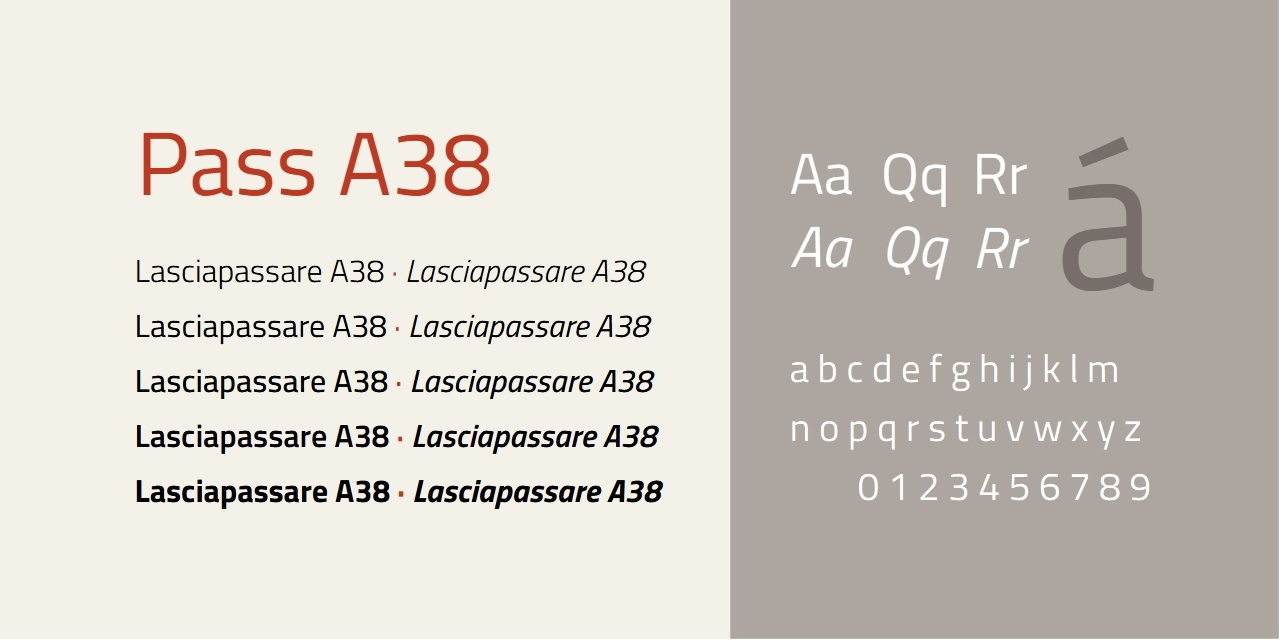
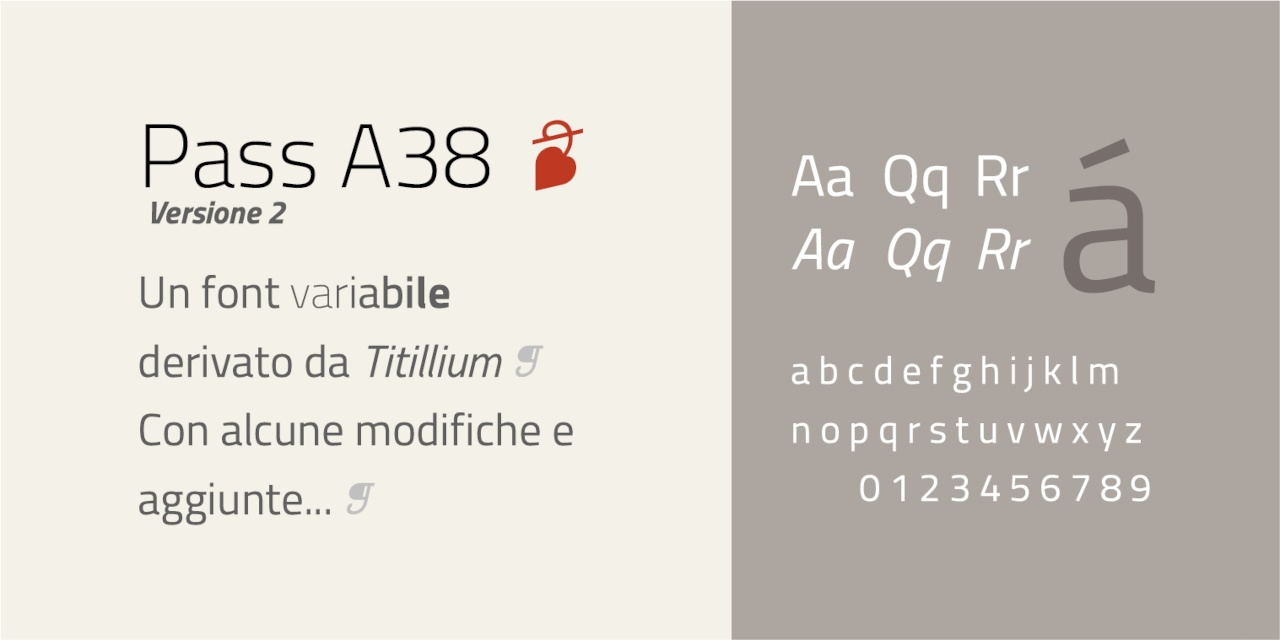
Version 2.102

diff --git a/index.html b/index.html
@@ -3,13 +3,15 @@
 <meta name="viewport" content="width=device-width, initial-scale=1.0">
 <style>
 @font-face {
-  font-family: "test"; font-weight: 200 700;
+  font-family: "test"; font-weight: 100 700;
   src: url("font/Pass_A38.woff2") format("woff2-variations");
 }
 body { font-family: "test"; font-size:16pt;margin:0;padding:0 }
 div { margin:0; padding:0; }
 
 a { color: #06c }
+
+i { font-variation-settings: "ital" 1; font-style:normal }
 
 header { width: 100%; margin:0; padding:0 }
 header > div { width:100%; color: #fff }
@@ -39,12 +41,18 @@ table { margin: 15px auto; padding:0; text-align:center; font-size: 16pt; border
 table th { border-bottom: 1px solid #666 }
 table td { padding: 2px 6px}
 
+blockquote { margin: 10px; padding: 6px 10px 6px 20px; border-left: 3px solid #bf3922 }
+
+.f1 { font-weight: 100 }
 .f2 { font-weight: 200 }
 .f3 { font-weight: 300 }
 .f4 { font-weight: 400 }
+.f5 { font-weight: 500 }
 .f6 { font-weight: 600 }
 .f7 { font-weight: 700 }
-.f9 { font-weight: 900; color: #888 }
+
+ul li::marker { font-family:'test'; color: #bf3922 }
+ol li::marker { font-family:'test'; color: #bf3922; font-feature-settings: 'ss04'; }
 
 .testo { color: #444; width:90%; margin: 20px 10px; border:0; border-bottom: 1px solid #888; font-family: "test"; }
 input.testo { font-size:32pt; }
@@ -55,6 +63,8 @@ footer { padding:0; margin:0; width: 100%; background: #2e383d; color: #fff }
 footer > div { padding:20 0; margin:0 auto; width: 1180px }
 footer p { margin: 0 10px; font-size: 18px }
 
+.rosso { color: #bf3922 }
+.fino { font-weight: 200 }
 .feat { font-weight: 600 }
 .legg { font-weight: 200 }
 .codice { color: #666; font-size: 12pt; text-align:left; border-bottom: 1px solid #666 }
@@ -65,6 +75,8 @@ footer p { margin: 0 10px; font-size: 18px }
 .vfrac { font-feature-settings: 'frac'; }
 .vss01 { font-feature-settings: 'ss01'; }
 .vss02 { font-feature-settings: 'ss02'; }
+.vss03 { font-feature-settings: 'ss03'; }
+.vss04 { font-feature-settings: 'ss04'; }
 
 div.side {width: 249px; margin: 30px 0 0; padding:10px 10px 5px; float:left; border-right:1px solid #555; color: #666 }
 
@@ -92,25 +104,32 @@ div.side {width: 249px; margin: 30px 0 0; padding:10px 10px 5px; float:left; bor
 
 	<section>
 		<div class="side">
-			<p>Una breve descrizione del font derivato da "Titillium Web"</p>
+			<p>Una breve descrizione del font derivato da <i>Titillium Web</i></p>
 		</div>
 		<article>
-			<h2>Un font variabile</h2>
+			<h2>Pass A38, un font variabile <span class="rosso fino">❦</span></h2>
 			<p>Utilizzare le barre di scorrimento per testare il font.</p>
 			<input type="text" class="testo" value="Inserire un testo di prova ÀÈÉÌÒÙßàèéìòù"/>
 			<p><i>Impostazioni:</i> <span id="dati"></span></p>
-			<p><b>wght (200...700):</b> <input id="range_wght" type="range" value="400" min="200" max="700" step="1" oninput="aggiorna('wght', this.value)"></p>
+			<p><b>wght (100...700):</b> <input id="range_wght" type="range" value="400" min="100" max="700" step="1" oninput="aggiorna('wght', this.value)"></p>
 			<p><b>ital (0...1)</b>: <input id="range_ital" type="range" value="0" min="0" max="1" step="1" oninput="aggiorna('ital', this.value)"></p>
 			<p><button onclick="reset()">Reimposta</button></p>
 
 			<h3>Descrizione</h3>
 			
-			<p>Il font "Titillium" è stato realizzato dall'Accademia di Belle Arti di Urbino e distribuito con licenza OFL 1.1<a class="ref" id="nt-1" href="#ref-1">[1]</a>; è ora distribuito via Google Fonts come "Titillium Web" in undici diverse versioni<a class="ref" id="nt-2" href="#ref-2">[2]</a>.</p>
+			<p>Il font <i>Titillium</i> è stato realizzato dall'Accademia di Belle Arti di Urbino e distribuito con licenza OFL 1.1<a class="ref" id="nt-1" href="#ref-1">[1]</a>; è ora distribuito via Google Fonts come <i>Titillium Web</i> in undici diverse versioni<a class="ref" id="nt-2" href="#ref-2">[2]</a>.</p>
+			<p>Il font variabile <i>Pass A38</i> è una derivazione del font <i>Titillium Web</i> (la lettera <i>l</i> minuscola è stata leggermente modificata per cercare di renderla facilmente distinguibile dalla <i>I</i> maiuscola).</p>
+			<p>Come mostra la tabella, il font <i>Pass A38</i> permette di simulare quasi tutte le varianti di <i>Titillium Web</i>; non è però disponibile la versione "Black" (cioè per weight=900) perché non esiste il corrispondente corsivo.</p>
 			<table cellpadding="0" cellspacing="0">
 				<tr>
 					<th>Weight</th>
 					<th>Tondo</th>
 					<th>Corsivo</th>
+				</tr>
+				<tr class="f1">
+					<td>100</td>
+					<td>Thin</td>
+					<td><i>Thin Italic</i></td>
 				</tr>
 				<tr class="f2">
 					<td>200</td>
@@ -127,6 +146,11 @@ div.side {width: 249px; margin: 30px 0 0; padding:10px 10px 5px; float:left; bor
 					<td>Regular</td>
 					<td><i>Italic</i></td>
 				</tr>
+				<tr class="f5">
+					<td>500</td>
+					<td>Medium</td>
+					<td><i>Medium Italic</i></td>
+				</tr>
 				<tr class="f6">
 					<td>600</td>
 					<td>SemiBold</td>
@@ -137,15 +161,19 @@ div.side {width: 249px; margin: 30px 0 0; padding:10px 10px 5px; float:left; bor
 					<td>Bold</td>
 					<td><i>Bold Italic</i></td>
 				</tr>
-				<tr class="f9">
-					<td>900</td>
-					<td>Black</td>
-					<td>—</td>
-				</tr>
 			</table>
-			<p>Il font variabile "Pass A38" è una derivazione del font "Titillium Web" (la lettera <b>l</b> minuscola è stata leggermente modificata per cercare di renderla facilmente distinguibile dalla <b>I</b> maiuscola).</p>
-			<p>Come mostra la tabella, il font "Pass A38" permette di simulare quasi tutte le varianti di "Titillium Web" con un unico file in formato WOFF2; non è però disponibile la versione "Black" (cioè quando weight=900) perché non esiste il corrispondente corsivo.</p>
-			<p>Poiché il font "Titillium Web" è stato adottato per la pubblica amministrazione italiana<a class="ref" id="nt-3" href="#ref-3">[3]</a>, la scelta del nome "Pass A38" intende essere un omaggio all'ottava fatica di Asterix<a class="ref" id="nt-4" href="#ref-4">[4]</a> per ottenere il "lasciapassare A38" („Passierschein A38“ in tedesco) nella «Casa che rende folli».</p>
+			<p>Il font può essere caricato con un unico file in formato WOFF2 con il codice seguente.</p>
+			<blockquote>@font-face {<br/>
+			&nbsp; &nbsp; font-family: "Pass A38";<br/>
+			&nbsp; &nbsp; font-weight: 100 700;<br/>
+			&nbsp; &nbsp; src: url("Pass_A38.woff2") format("woff2-variations");<br/>
+			}</blockquote>
+			<p>Ovviamente deve essere adattando il percorso verso il file nei diversi casi.</p>
+			<p>Per ottenere correttamente il corsivo con Chrome, per il marcatore <i>i</i> utilizzare il seguente elemento.</p>
+			<blockquote>i { font-variation-settings: "ital" 1; font-style:normal }</blockquote>
+
+			<h3 id="nome">Nome</h3>
+			<p>Poiché il font <i>Titillium Web</i> è stato adottato per la pubblica amministrazione italiana<a class="ref" id="nt-3" href="#ref-3">[3]</a>, la scelta del nome <i>Pass A38</i> intende essere un omaggio all'ottava fatica di Asterix<a class="ref" id="nt-4" href="#ref-4">[4]</a> per ottenere il "lasciapassare A38" („Passierschein A38“ in tedesco) nella «Casa che rende folli».</p>
 
 			<h3 id="caratteristiche">Caratteristiche</h3>
 			<p>Il font è distribuito nei formati ttf e WOFF2 e sono supportate le seguenti caratteristiche.</p>
@@ -213,8 +241,49 @@ div.side {width: 249px; margin: 30px 0 0; padding:10px 10px 5px; float:left; bor
 				<tr>
 					<td colspan="4" class="codice">font-feature-settings: 'ss02';</td>
 				</tr>
+				<tr>
+					<td class="feat">'ss03'</td>
+					<td>1234567890</td>
+					<td class="legg">→</td>
+					<td class="vss03">1234567890</td>
+				<tr>
+				<tr>
+					<td colspan="4" class="codice">font-feature-settings: 'ss03';</td>
+				</tr>
 			</table>
 			<p>Sempre in omaggio alla «Casa che rende folli», la caratteristica <b>'ss01'</b> permette di ottenere i numeri romani dei piani e degli sportelli (solo nell'intervallo 1-9999), mentre la caratteristica <b>'ss02'</b> permette di mostrare le frecce per orientarsi tra gli sportelli.</p>
+
+			<h3 id="unicode">Elenco caratteri UNICODE</h3>
+			<p>! " # $ % & ' ( ) * + , - . / 0 1 2 3 4 5 6 7 8 9 : ; < = > ? @ A B C D E F G H I J K L M N O P Q R S T U V W X Y Z [ \ ] ^ _ ` a b c d e f g h i j k l m n o p q r s t u v w x y z { | } ~ ¡ ¢ £ ¤ ¥ ¦ § ¨ © ª « ¬ ® ¯ ° ± ² ³ ´ µ ¶ · ¸ ¹ º » ¼ ½ ¾ ¿ À Á Â Ã Ä Å Æ Ç È É Ê Ë Ì Í Î Ï Ð Ñ Ò Ó Ô Õ Ö × Ø Ù Ú Û Ü Ý Þ ß à á â ã ä å æ ç è é ê ë ì í î ï ð ñ ò ó ô õ ö ÷ ø ù ú û ü ý þ ÿ Ā ā Ă ă Ą ą Ć ć Ĉ ĉ Ċ ċ Č č Ď ď Đ đ Ē ē Ĕ ĕ Ė ė Ę ę Ě ě Ĝ ĝ Ğ ğ Ġ ġ Ģ ģ Ĥ ĥ Ħ ħ Ĩ ĩ Ī ī Ĭ ĭ Į į İ ı Ĳ ĳ Ĵ ĵ Ķ ķ Ĺ ĺ Ļ ļ Ľ ľ Ł ł Ń ń Ņ ņ Ň ň Ŋ ŋ Ō ō Ŏ ŏ Ő ő Œ œ Ŕ ŕ Ŗ ŗ Ř ř Ś ś Ŝ ŝ Ş ş Š š Ţ ţ Ť ť Ŧ ŧ Ũ ũ Ū ū Ŭ ŭ Ů ů Ű ű Ų ų Ŵ ŵ Ŷ ŷ Ÿ Ź ź Ż ż Ž ž ſ Ǝ Ə ƒ Ǻ ǻ Ǽ ǽ Ǿ ǿ Ș ș Ț ț ȷ ˆ ˇ ˘ ˙ ˚ ˛ ˜ ˝ ̦ Δ Ω μ π ฿ Ẁ ẁ Ẃ ẃ Ẅ ẅ ẞ ẫ Ằ ễ ỗ Ỳ ỳ Ỹ ỹ – — ‖ ‘ ’ ‚ “ ” „ † ‡ • … ‰ ‹ › ⁂ ⁄ ⁋ ⁰ ⁴ ⁵ ⁶ ⁷ ⁸ ⁹ ₀ ₁ ₂ ₃ ₄ ₅ ₆ ₇ ₈ ₉ ₦ ₪ € ₲ ₴ ₹ ₽ ™ Ω ← ↑ → ↓ ∂ ∆ ∏ ∑ − ∕ ∙ √ ∞ ∫ ≈ ≠ ≡ ≤ ≥ ■ □ ▪ ▫ ▲ △ ▶ ▷ ▼ ▽ ◀ ◁ ◆ ◇ ◊ ○ ● ◦ ◻ ◼ ❡ ❦ ➊ ➋ ➌ ➍ ➎ ➏ ➐ ➑ ➒ ➓ ⟦ ⟧ ⟨ ⟩ ⬛ ⬜ 🄌</p>
+			<p><i>! " # $ % & ' ( ) * + , - . / 0 1 2 3 4 5 6 7 8 9 : ; < = > ? @ A B C D E F G H I J K L M N O P Q R S T U V W X Y Z [ \ ] ^ _ ` a b c d e f g h i j k l m n o p q r s t u v w x y z { | } ~ ¡ ¢ £ ¤ ¥ ¦ § ¨ © ª « ¬ ® ¯ ° ± ² ³ ´ µ ¶ · ¸ ¹ º » ¼ ½ ¾ ¿ À Á Â Ã Ä Å Æ Ç È É Ê Ë Ì Í Î Ï Ð Ñ Ò Ó Ô Õ Ö × Ø Ù Ú Û Ü Ý Þ ß à á â ã ä å æ ç è é ê ë ì í î ï ð ñ ò ó ô õ ö ÷ ø ù ú û ü ý þ ÿ Ā ā Ă ă Ą ą Ć ć Ĉ ĉ Ċ ċ Č č Ď ď Đ đ Ē ē Ĕ ĕ Ė ė Ę ę Ě ě Ĝ ĝ Ğ ğ Ġ ġ Ģ ģ Ĥ ĥ Ħ ħ Ĩ ĩ Ī ī Ĭ ĭ Į į İ ı Ĳ ĳ Ĵ ĵ Ķ ķ Ĺ ĺ Ļ ļ Ľ ľ Ł ł Ń ń Ņ ņ Ň ň Ŋ ŋ Ō ō Ŏ ŏ Ő ő Œ œ Ŕ ŕ Ŗ ŗ Ř ř Ś ś Ŝ ŝ Ş ş Š š Ţ ţ Ť ť Ŧ ŧ Ũ ũ Ū ū Ŭ ŭ Ů ů Ű ű Ų ų Ŵ ŵ Ŷ ŷ Ÿ Ź ź Ż ż Ž ž ſ Ǝ Ə ƒ Ǻ ǻ Ǽ ǽ Ǿ ǿ Ș ș Ț ț ȷ ˆ ˇ ˘ ˙ ˚ ˛ ˜ ˝ ̦ Δ Ω μ π ฿ Ẁ ẁ Ẃ ẃ Ẅ ẅ ẞ ẫ Ằ ễ ỗ Ỳ ỳ Ỹ ỹ – — ‖ ‘ ’ ‚ “ ” „ † ‡ • … ‰ ‹ › ⁂ ⁄ ⁋ ⁰ ⁴ ⁵ ⁶ ⁷ ⁸ ⁹ ₀ ₁ ₂ ₃ ₄ ₅ ₆ ₇ ₈ ₉ ₦ ₪ € ₲ ₴ ₹ ₽ ™ Ω ← ↑ → ↓ ∂ ∆ ∏ ∑ − ∕ ∙ √ ∞ ∫ ≈ ≠ ≡ ≤ ≥ ■ □ ▪ ▫ ▲ △ ▶ ▷ ▼ ▽ ◀ ◁ ◆ ◇ ◊ ○ ● ◦ ◻ ◼ ❡ ❦ ➊ ➋ ➌ ➍ ➎ ➏ ➐ ➑ ➒ ➓ ⟦ ⟧ ⟨ ⟩ ⬛ ⬜ 🄌</i></p>
+
+			<h3 id="numeri">Numeri e tabelle</h3>
+			<p>Per facilitare gli allineamenti si sono considerati i caratteri numerici con spaziatura costante. Anche i caratteri relativi alle valute hanno la stessa spaziatura.</p>
+			<blockquote>|<span class="f1"> 12,34% <span class="vfrac">123/456</span> 123,45 $ </span>|<span class="f4"> 12,34% <span class="vfrac">123/456</span> 123,45 $ </span>|<span class="f7"> 12,34% <span class="vfrac">123/456</span> 123,45 $ </span>|<br/>
+			|<span class="f1"> 56,78% <span class="vfrac">234/567</span> 678,90 € </span>|<span class="f4"> 56,78% <span class="vfrac">234/567</span> 678,90 € </span>|<span class="f7"> 56,78% <span class="vfrac">234/567</span> 678,90 € </span>|<br/>
+			|<span class="f1"> 90,12% <span class="vfrac">345/678</span> 123,45 ₹ </span>|<span class="f4"> 90,12% <span class="vfrac">345/678</span> 123,45 ₹ </span>|<span class="f7"> 90,12% <span class="vfrac">345/678</span> 123,45 ₹ </span>|<br/>
+			|<span class="f1"> 34,56% <span class="vfrac">456/789</span> 678,90 ₪ </span>|<span class="f4"> 34,56% <span class="vfrac">456/789</span> 678,90 ₪ </span>|<span class="f7"> 34,56% <span class="vfrac">456/789</span> 678,90 ₪ </span>|<br/>
+			|<span class="f1"> 78,90% <span class="vfrac">567/890</span> 123,45 ₴ </span>|<span class="f4"> 78,90% <span class="vfrac">567/890</span> 123,45 ₴ </span>|<span class="f7"> 78,90% <span class="vfrac">567/890</span> 123,45 ₴ </span>|</blockquote>
+
+			<h3 id="elenchi">Simboli per elenchi</h3>
+			<p>Il font contiene vari simboli per elenchi puntati e permette di avere simboli adeguati per elenchi HTML con marcatore <i>ul</i>, tramite il codice seguente (testato con Firefox).</p>
+			<blockquote>ul li::marker { font-family: "Pass A38"; }</blockquote>
+			<p>Un esempio in cui è stato anche modificato il colore dei punti.</p>
+			<ul>
+				<li>Esempio di elemento di primo livello<ul>
+					<li>Esempio di elemento di secondo livello<ul>
+						<li>Esempio di elemento di terzo livello</li>
+					</li></ul>
+				</li></ul>
+			</ul>
+			<ul class="f1">
+				<li>Esempio di elemento di primo livello<ul>
+					<li>Esempio di elemento di secondo livello<ul>
+						<li>Esempio di elemento di terzo livello</li>
+					</li></ul>
+				</li></ul>
+			</ul>
+
 			<h4>Note</h4>
 			<p class="nota" id="ref-1"><a class="refn" href="#nt-1">1]</a> <i><a href="https://github.com/ecm4u/Titillium" target="_blank">Titillium</a></i>, Github.</p>
 			<p class="nota" id="ref-2"><a class="refn" href="#nt-2">2]</a> <i><a href="https://fonts.google.com/specimen/Titillium+Web" target="_blank">Titillium Web</a></i>, Google Fonts.</p>
@@ -224,7 +293,7 @@ div.side {width: 249px; margin: 30px 0 0; padding:10px 10px 5px; float:left; bor
 	</section>
 	<footer>
 		<div>
-			<p>&copy; 2023 Michele Casanova
+			<p>&copy; 2023-2024 Michele Casanova
 		</div>
 	</footer>
 
